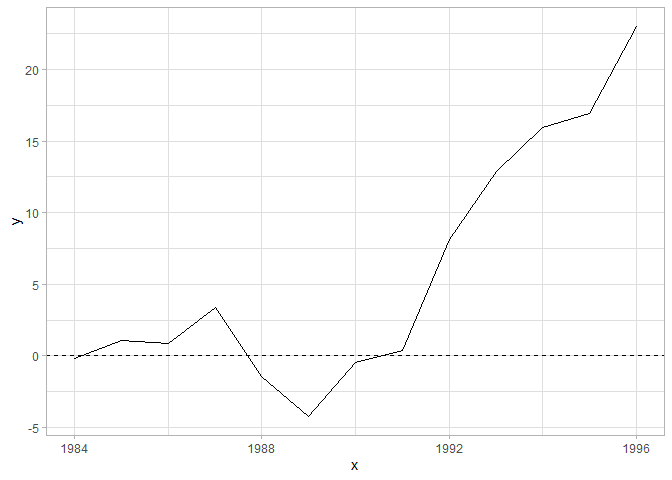
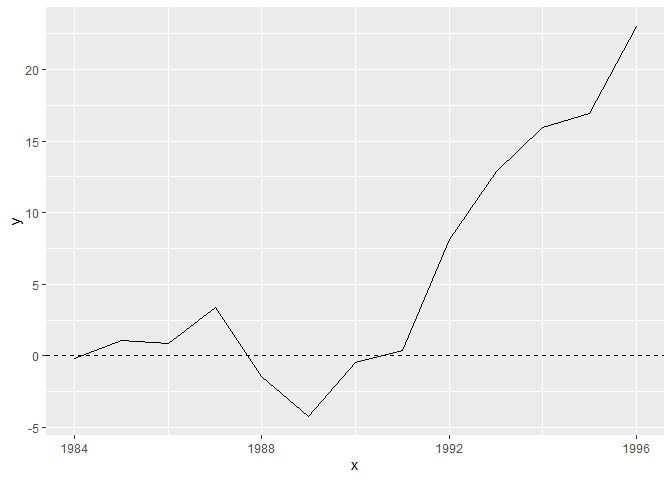
add plot with tr.intake

diff --git a/README.md b/README.md
@@ -90,6 +90,17 @@ my_path_plot(dataprep.res = dataprep.out, synth.res = synth.out, ggplot = TRUE) 
 
 ![](README_files/figure-gfm/unnamed-chunk-4-1.png)<!-- -->
 
+``` r
+my_path_plot(dataprep.res = dataprep.out, synth.res = synth.out, ggplot = TRUE,
+             tr.intake = 1991) +
+  ggplot2::theme_light()
+```
+
+    ## Warning in my_path_plot(dataprep.res = dataprep.out, synth.res = synth.out, :
+    ## Argument `Legend.position` doesn't work when `ggplot = TRUE`.
+
+![](README_files/figure-gfm/unnamed-chunk-5-1.png)<!-- -->
+
 ## Gap plot
 
 **Default**
@@ -98,7 +109,7 @@ my_path_plot(dataprep.res = dataprep.out, synth.res = synth.out, ggplot = TRUE) 
 gaps.plot(dataprep.res = dataprep.out, synth.res = synth.out)
 ```
 
-![](README_files/figure-gfm/unnamed-chunk-5-1.png)<!-- -->
+![](README_files/figure-gfm/unnamed-chunk-6-1.png)<!-- -->
 
 **Custom**
 
@@ -106,11 +117,12 @@ gaps.plot(dataprep.res = dataprep.out, synth.res = synth.out)
 my_gaps_plot(dataprep.res = dataprep.out, synth.res = synth.out, ggplot = TRUE)
 ```
 
-![](README_files/figure-gfm/unnamed-chunk-6-1.png)<!-- -->
+![](README_files/figure-gfm/unnamed-chunk-7-1.png)<!-- -->
 
 ``` r
-my_gaps_plot(dataprep.res = dataprep.out, synth.res = synth.out, ggplot = TRUE) +
+my_gaps_plot(dataprep.res = dataprep.out, synth.res = synth.out, ggplot = TRUE,
+             tr.intake = 1991) +
   ggplot2::theme_light()
 ```
 
-![](README_files/figure-gfm/unnamed-chunk-7-1.png)<!-- -->
+![](README_files/figure-gfm/unnamed-chunk-8-1.png)<!-- -->
